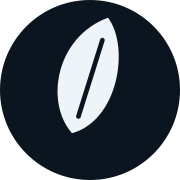
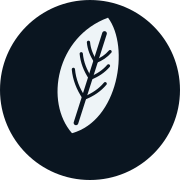
Brand: the leaflet's veins from 48 px up, plain below (#1)
* Brand: the leaflet's midrib and veins, by size

The leaflet now carries its detail, cut out with a mask so the ground shows
through on any surface:
- under 48 px, the midrib alone: the dot of the i in every lockup, favicons
  16 and 32, mark-small-on-lake;
- from 48 px up, the midrib and three pairs of side veins curving to the tip:
  the marks and stamps, and the 180 px apple touch icon.

tools/leafdetail.py draws both and recut() applies them to finished SVGs.
tree.lockup() and tree.mark() use it, so a fresh cut matches the files here to
the byte. PNGs re-rendered from their SVGs with rsvg-convert (favicon-64, drawn
by another tool, already had its midrib and is unchanged). BRAND.md's size rule
is updated to match.

Claude-Session: https://claude.ai/code/session_01BZhgpDjnMaquFkANhzeRpc

* Leaf: veins or nothing, no lone midrib under 48 px

The thin line read as a flaw at lockup and favicon sizes. The lockups, avatar,
access and workspace logos and the small favicons go back to main's plain leaf;
the generator drops its line level.

Claude-Session: https://claude.ai/code/session_01BZhgpDjnMaquFkANhzeRpc

* Leave k-sheet.svg out; it was added by mistake

Claude-Session: https://claude.ai/code/session_01BZhgpDjnMaquFkANhzeRpc

---------

Changed region(s): [[0.3889, 0.2222, 0.6389, 0.6944], [0.5556, 0.1667, 0.6111, 0.2222]]

diff --git a/brand/tools/leafdetail.py b/brand/tools/leafdetail.py
@@ -1,0 +1,72 @@
+"""The leaflet's detail, cut out of the leaf with a mask so the ground shows through on any surface.
+
+By the size the leaf renders at (BRAND.md, Mark): "veins", the midrib and three pairs of side veins curving to the
+tip, from 48 px up; under 48 px, None, a plain leaf (the dot of the i, favicons).
+
+Coordinates are the leaflet's own (tree.leaflet_path: base at the origin, tip at (w, -h)), drawn for w=42.6,
+h=52 and scaled to the leaf, so the detail fits any leaflet the tools cut.
+"""
+import re
+
+W0, H0 = 42.6, 52.0
+MIDRIB = ((4.2, -4.5), (37.5, -44.6))
+# Fitted inside the outline (64% of the way to the edge), each bowing toward the tip.
+VEINS = [
+    ((13.6, -15.5), (21.4, -15.4), (27.4, -18.6)), ((13.6, -15.5), (11.6, -24.7), (14.0, -32.6)),
+    ((20.9, -24.5), (27.6, -24.4), (32.8, -27.1)), ((20.9, -24.5), (19.3, -32.3), (21.3, -39.0)),
+    ((27.1, -32.0), (32.4, -31.9), (36.6, -34.1)), ((27.1, -32.0), (25.8, -38.1), (27.4, -43.4)),
+]
+
+
+def _pt(p, w, h):
+    return f"{p[0] * w / W0:.2f} {p[1] * h / H0:.2f}"
+
+
+def cuts(w, h, level):
+    """The detail as black strokes, for the inside of a mask."""
+    k = h / H0
+    a, b = MIDRIB
+    veins = " ".join(f"M{_pt(s, w, h)} Q{_pt(c, w, h)} {_pt(e, w, h)}" for s, c, e in VEINS)
+    return (f'<g fill="none" stroke="black" stroke-linecap="round">'
+            f'<path d="M{_pt(a, w, h)} L{_pt(b, w, h)}" stroke-width="{2.6 * k:.2f}"/>'
+            f'<path d="{veins}" stroke-width="{1.8 * k:.2f}"/></g>')
+
+
+def leaf(transform, d, level, mask_id, fill=None):
+    """A leaflet path with its detail cut out. The mask sits in the leaf's own coordinates; its size is read from
+    the path as written, so the generator and recut() agree to the digit."""
+    w, h = size_of(d)
+    fill_attr = f' fill="{fill}"' if fill else ""
+    if not level:
+        return f'<path transform="{transform}" d="{d}"{fill_attr}/>'
+    return (f'<g transform="{transform}"><mask id="{mask_id}" maskUnits="userSpaceOnUse" x="-100" y="-100" '
+            f'width="200" height="200"><rect x="-100" y="-100" width="200" height="200" fill="white"/>'
+            f'{cuts(w, h, level)}</mask><path d="{d}"{fill_attr} mask="url(#{mask_id})"/></g>')
+
+
+# An uncut leaflet as the tools write it, and the stroked midrib the marks used to carry.
+LEAF_RE = re.compile(r'<path transform="([^"]*rotate\(-22\))" d="(M0 0 C [^"]*Z)"(?: fill="([^"]*)")?/>')
+OLD_RIB_RE = re.compile(r'<path transform="[^"]*rotate\(-22\)" d="M[^"]*" fill="none" stroke="[^"]*" '
+                        r'stroke-width="[^"]*" stroke-linecap="round"/>')
+CUT_RE = re.compile(r'<g transform="([^"]*rotate\(-22\))"><mask id="[^"]*".*?</mask><path d="(M0 0 C [^"]*Z)"'
+                    r'(?: fill="([^"]*)")? mask="url\(#[^)]*\)"/></g>')
+
+
+def size_of(d):
+    nums = [float(n) for n in re.findall(r"-?\d+\.?\d*", d)]
+    return nums[6], -nums[7]  # the first curve ends at the tip, (w, -h)
+
+
+def recut(svg, level, prefix="hl-leaf"):
+    """Give every leaflet in an SVG the detail for `level` (None for a plain leaf). Safe to run again."""
+    svg = OLD_RIB_RE.sub("", svg)
+    n = [0]
+
+    def one(m):
+        transform, d, fill = m.group(1), m.group(2), m.group(3)
+        n[0] += 1
+        return leaf(transform, d, level, f"{prefix}-{n[0]}", fill)
+
+    svg = CUT_RE.sub(lambda m: f'<path transform="{m.group(1)}" d="{m.group(2)}"'
+                               + (f' fill="{m.group(3)}"' if m.group(3) else "") + "/>", svg)
+    return LEAF_RE.sub(one, svg)

diff --git a/brand/tools/tree.py b/brand/tools/tree.py
@@ -1,5 +1,6 @@
 import json, re
 from render import word, G
+from leafdetail import leaf
 from final import caps, STEM, LSB
 DARK="#0F1419"; CREAM="#E8EAE3"; AMBER="#F2A541"
 
@@ -25,7 +26,8 @@ def leaf_dot(font,size,x,base,scale=1.0,rot=-22):
     cx=x+(min(xs)+max(xs))/2*s; cy=base-(ymin+ymax)/2*s     # dot center in svg coords
     L=stem_w*2.5*scale; Wl=L*0.82
     p=leaflet_path(L, L*0.0+L)  # square-ish box, rotate to lean
-    return f'<path transform="translate({cx-stem_w*0.15:.2f} {cy+L*0.42:.2f}) rotate({rot})" d="{leaflet_path(Wl, L)}"/>'
+    # The dot of the i is small wherever the lockup goes, so the leaf stays plain (leafdetail.py).
+    return leaf(f"translate({cx-stem_w*0.15:.2f} {cy+L*0.42:.2f}) rotate({rot})", leaflet_path(Wl, L), None, "hl-leaf-1")
 
 def h_fork(font,size,x,base,angle=28,length=0.42):
     d=G[font]; s=size/d["upm"]; stem_w=STEM[font]*size; asc={"outfit":0.70,"jost":0.72}[font]*size
@@ -57,15 +59,14 @@ def lockup(font, variant, fg, accent=None, size=100, labs=True):
     vb_x=-size*0.16 if variant=="fork" else -size*0.02
     return f'<svg xmlns="http://www.w3.org/2000/svg" viewBox="{vb_x:.1f} {-size*0.05:.1f} {Wd-vb_x:.1f} {H+size*0.05:.1f}"><g fill="{fg}">{w}</g>{extra}<g fill="{fg}" opacity="0.75">{lb}</g></svg>'
 
-def mark(font, variant, fg, bg=None, size=100, rib_ok=True):
+def mark(font, variant, fg, bg=None, size=100, rib_ok=True, detail="veins"):
     circ=f'<circle cx="{size/2}" cy="{size/2}" r="{size/2}" fill="{bg}"/>' if bg else ""
     if variant=="leaf":
         L=size*0.52; Wl=L*0.82; rot=-22
         ox=size*0.40; oy=size*0.74
-        p=f'<path transform="translate({ox:.1f} {oy:.1f}) rotate({rot})" d="{leaflet_path(Wl, L)}" fill="{fg}"/>'
-        rib=(f'<path transform="translate({ox:.1f} {oy:.1f}) rotate({rot})" d="M{Wl*0.16:.1f} {-L*0.14:.1f} L{Wl*0.82:.1f} {-L*0.80:.1f}" '
-             f'fill="none" stroke="{bg}" stroke-width="{size*0.026:.1f}" stroke-linecap="round"/>') if bg and rib_ok else ""
-        return f'<svg xmlns="http://www.w3.org/2000/svg" viewBox="0 0 {size} {size}">{circ}{p}{rib}</svg>'
+        # detail: "veins" from 48 px up, None (a plain leaf) below (leafdetail.py).
+        p=leaf(f"translate({ox:.1f} {oy:.1f}) rotate({rot})", leaflet_path(Wl, L), detail if rib_ok else None, "hl-leaf-1", fg)
+        return f'<svg xmlns="http://www.w3.org/2000/svg" viewBox="0 0 {size} {size}">{circ}{p}</svg>'
     else:
         import math; sw=size*0.10; cx=size/2
         y0=size*0.78; ytop=size*0.24; fy=size*0.50; L=size*0.36

diff --git a/brand/BRAND.md b/brand/BRAND.md
@@ -43,8 +43,12 @@ Two marks, by size.
 | Use | Mark | File |
 | --- | --- | --- |
 | GitHub org avatar (rounded square, shown at 48 and 24) | `hickory` wordmark on a Lake tile, no LABS | `avatar-tile.svg`, `avatar-512.png`, `avatar-1024.png` |
-| Favicon 32, 16, apple touch 180 | the leaflet alone on Lake, no midrib below 32 | `favicon-*.png`, `apple-touch-icon.png` |
-| README stamp, social cards | the leaflet with midrib, or the full lockup | `mark-plain-*.svg`, lockups |
+| Favicon 32, 16 | the leaflet alone on Lake, plain | `favicon-*.png`, `mark-small-on-lake.svg` |
+| Apple touch 180, README stamp, social cards | the leaflet alone with midrib and veins, or the full lockup | `apple-touch-icon.png`, `mark-*.svg`, lockups |
+
+The leaflet's detail goes by the size it renders at. From 48 px up, the midrib and three pairs of side veins curving
+to the tip, as a real hickory leaflet has them. Under 48 px, no detail at all: favicons, and the dot of the i in every
+lockup, where a lone line reads as a flaw. The veins are cut out of the leaf (`tools/leafdetail.py`), so the ground shows through on any surface.
 
 The leaflet alone is kept for favicons and stamps, where a word would not be legible. It is
 centered on its bounding box (`tools/leafmark.py`), not by eye.

diff --git a/brand/tools/README.md b/brand/tools/README.md
@@ -17,7 +17,9 @@ rsvg-convert -w 512 -h 512 mark-on-lake.svg -o avatar-512.png
 
 `tree.lockup(font, "leaf", ink, accent=None, labs=True)` returns the SVG; `labs=False` drops the
 LABS line. `tree.mark(font, "leaf", fg, bg=None, rib_ok=True)` returns the leaflet, on a circle
-when `bg` is given, with the midrib cut in `bg`; pass `rib_ok=False` below 32 px.
+when `bg` is given, with its detail cut out: `detail="veins"` (the default, 48 px and up) or `None`
+(a plain leaf, below 48); `rib_ok=False` also leaves it plain. The lockup's leaflet is always plain.
+`leafdetail.recut(svg, level)` applies the same detail to a finished SVG, and is safe to run again.
 
 Outfit is licensed under the SIL Open Font License. The outlines here are rendered artwork, which
 the OFL permits; the font itself is not redistributed.
